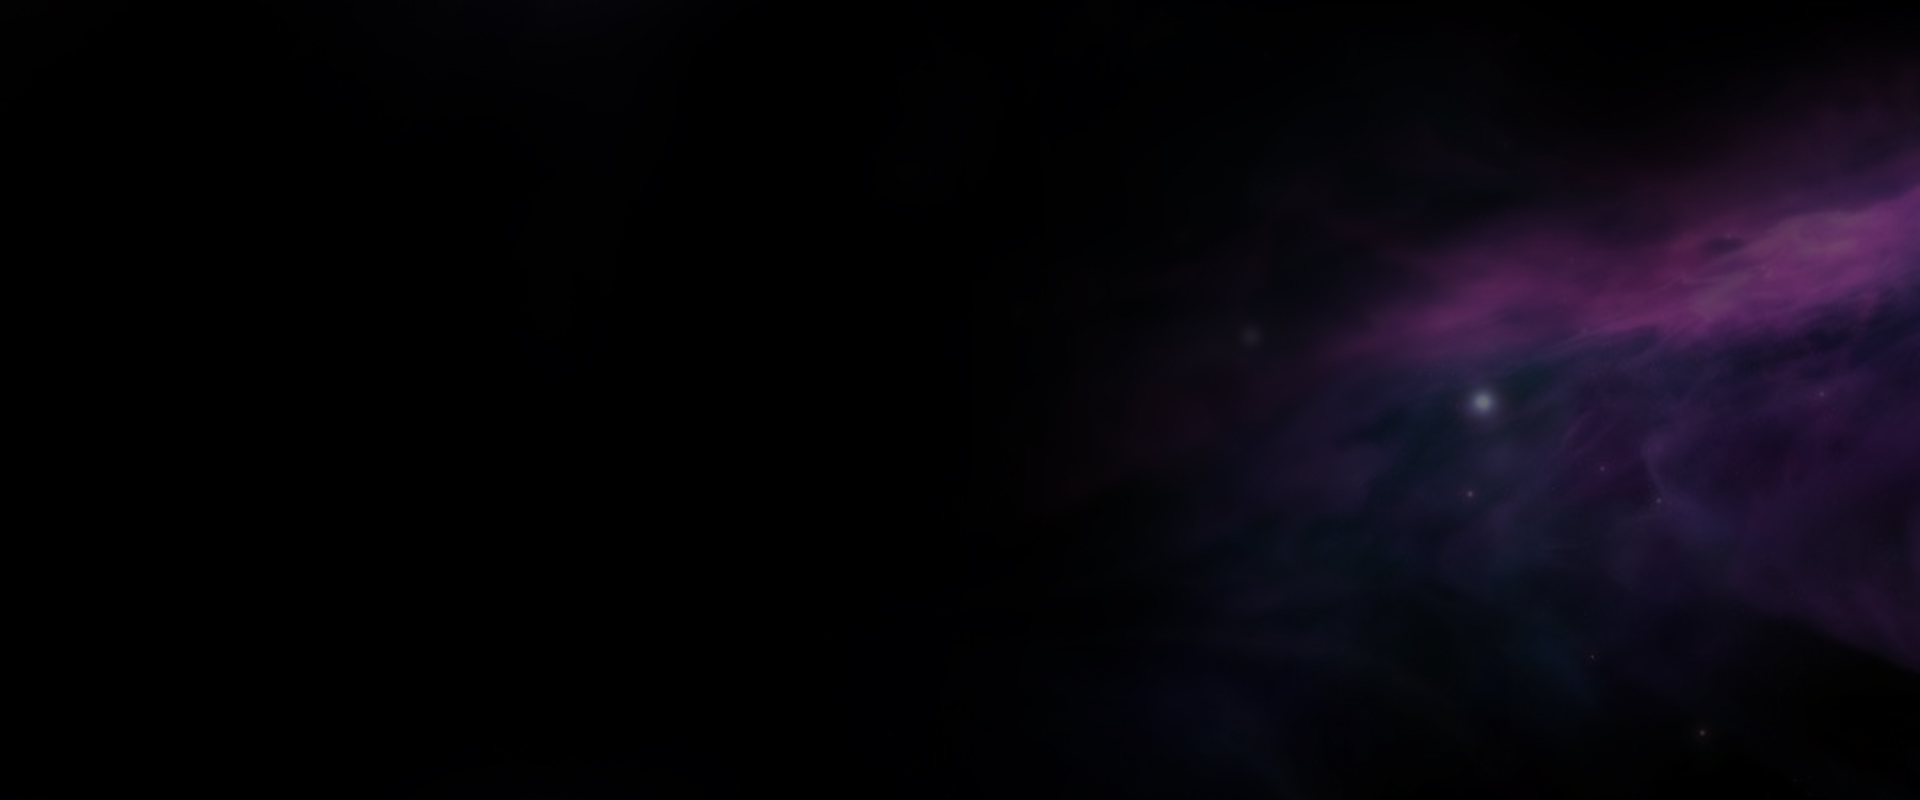
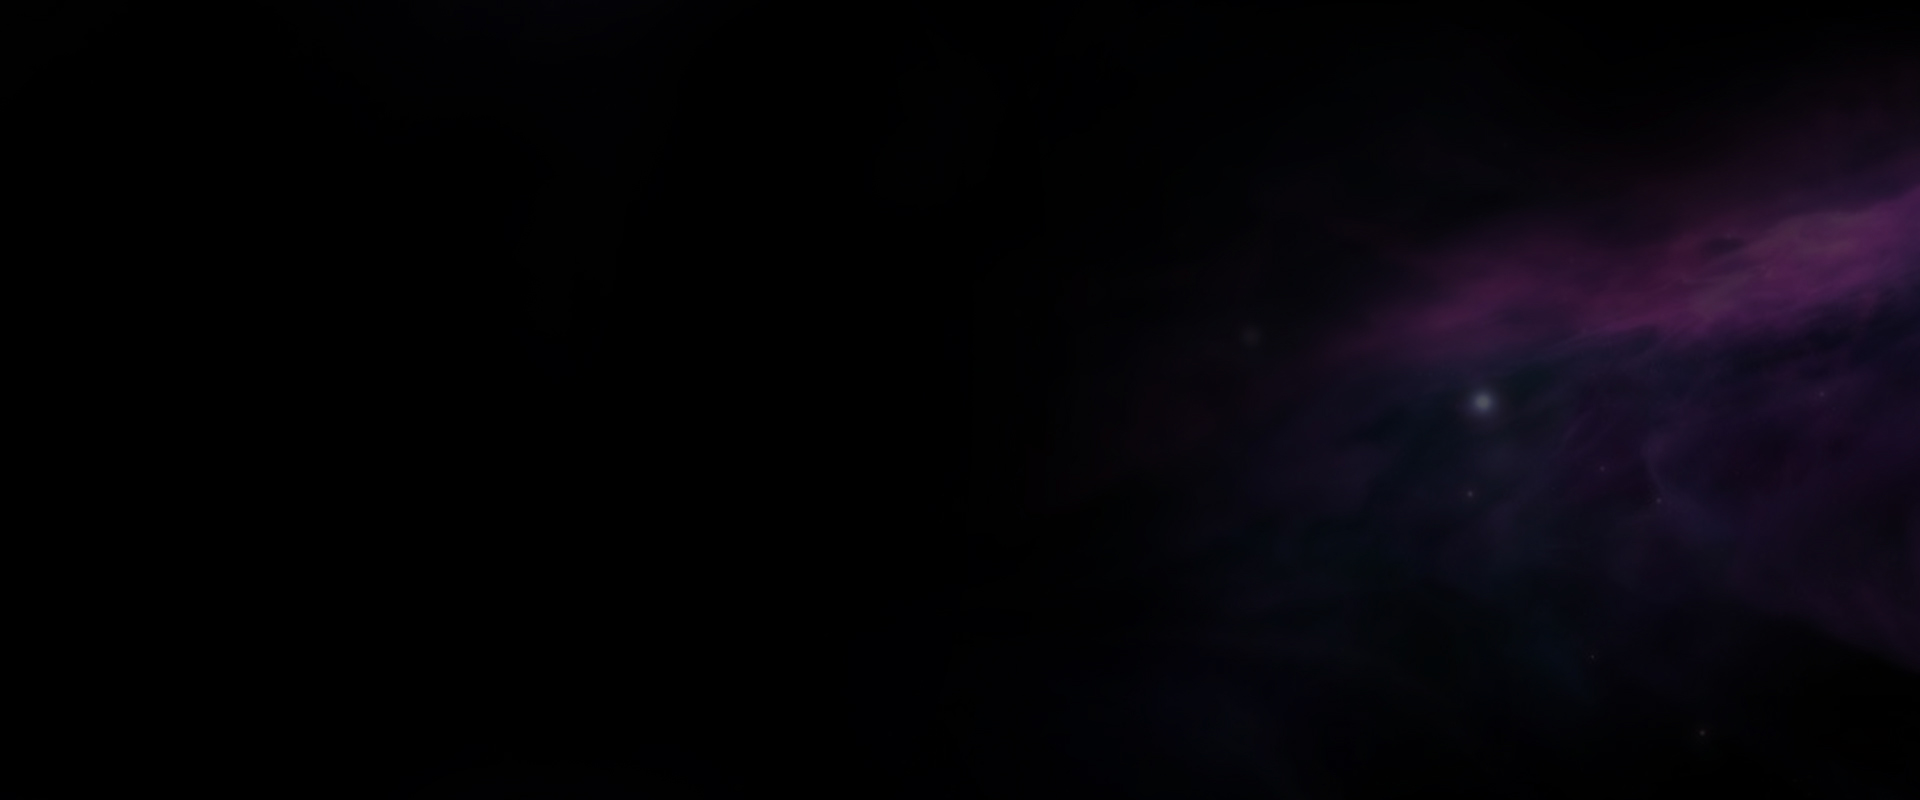
adust readme

diff --git a/src/gradient.css b/src/gradient.css
@@ -6,8 +6,8 @@
   width: 100%;
   
   /* Fallback background color */
-  background: #050505;
+  background: #000000;
   
   /* Radial gradient syntax updated for better compatibility */
-  background: radial-gradient(circle, #050505 10%, rgba(255, 255, 255, 0) 90%) center/cover no-repeat;
+  background: radial-gradient(circle, #000000 10%, rgba(255, 255, 255, 0) 90%) center/cover no-repeat;
 }

diff --git a/src/components/ARCrystal.jsx b/src/components/ARCrystal.jsx
@@ -38,7 +38,7 @@ const ARCrystal = () => {
           <p className='text-white'>
             Scan QR code to experience
           </p>
-          {/* <img className="w-[100%] h-[100%] mt-100 pt-100" src={Crystalcode} alt="QR Code" /> */}
+          <img className=" w-[80px] h-[80px] mt-100 " src={Crystalcode} alt="QR Code" />
         </div>
       </div>
     </div>

diff --git a/README.md b/README.md
@@ -1,6 +1,11 @@
 # MindWhisperer 
 
 ## About the Project 
+This is an e-commerce virtual AR and physical products web application. The initial idea stemmed from one of my trips to Become Town, New York. I've always been fascinated by the Western magical world, psychic culture, astrology, natural herbs, and healing. I experienced mental breakdowns twice, which drove me to start seeking some natural healing methods.
+
+I hold the belief that within the vastness of the universe, humans are insignificantly small. I also believe that every entity, from a humble plant to a solitary stone, harbors life and possesses the ability to generate energy and engage with the universe.
+
+- Evelyn
 
 ## Environment 
 npm install for frontend 
@@ -8,4 +13,4 @@ mvn spring-boot:run for backend
 
 ## Contributer 
 backend- Ronglin 
-frontend - Evenlyn
+frontend/Designer - Evenlyn
